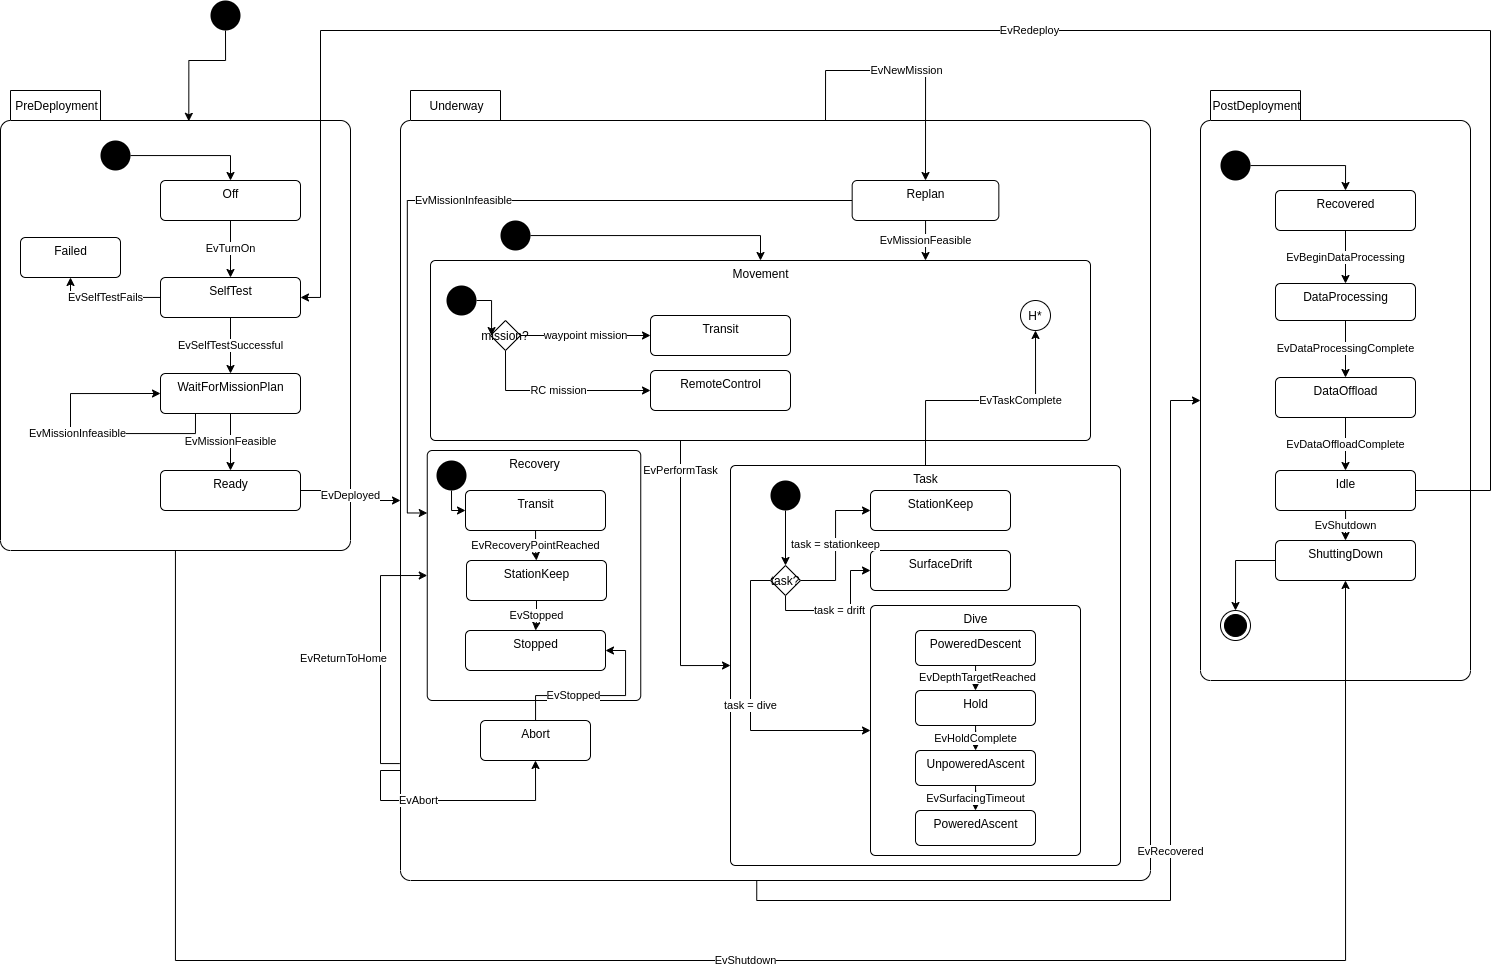
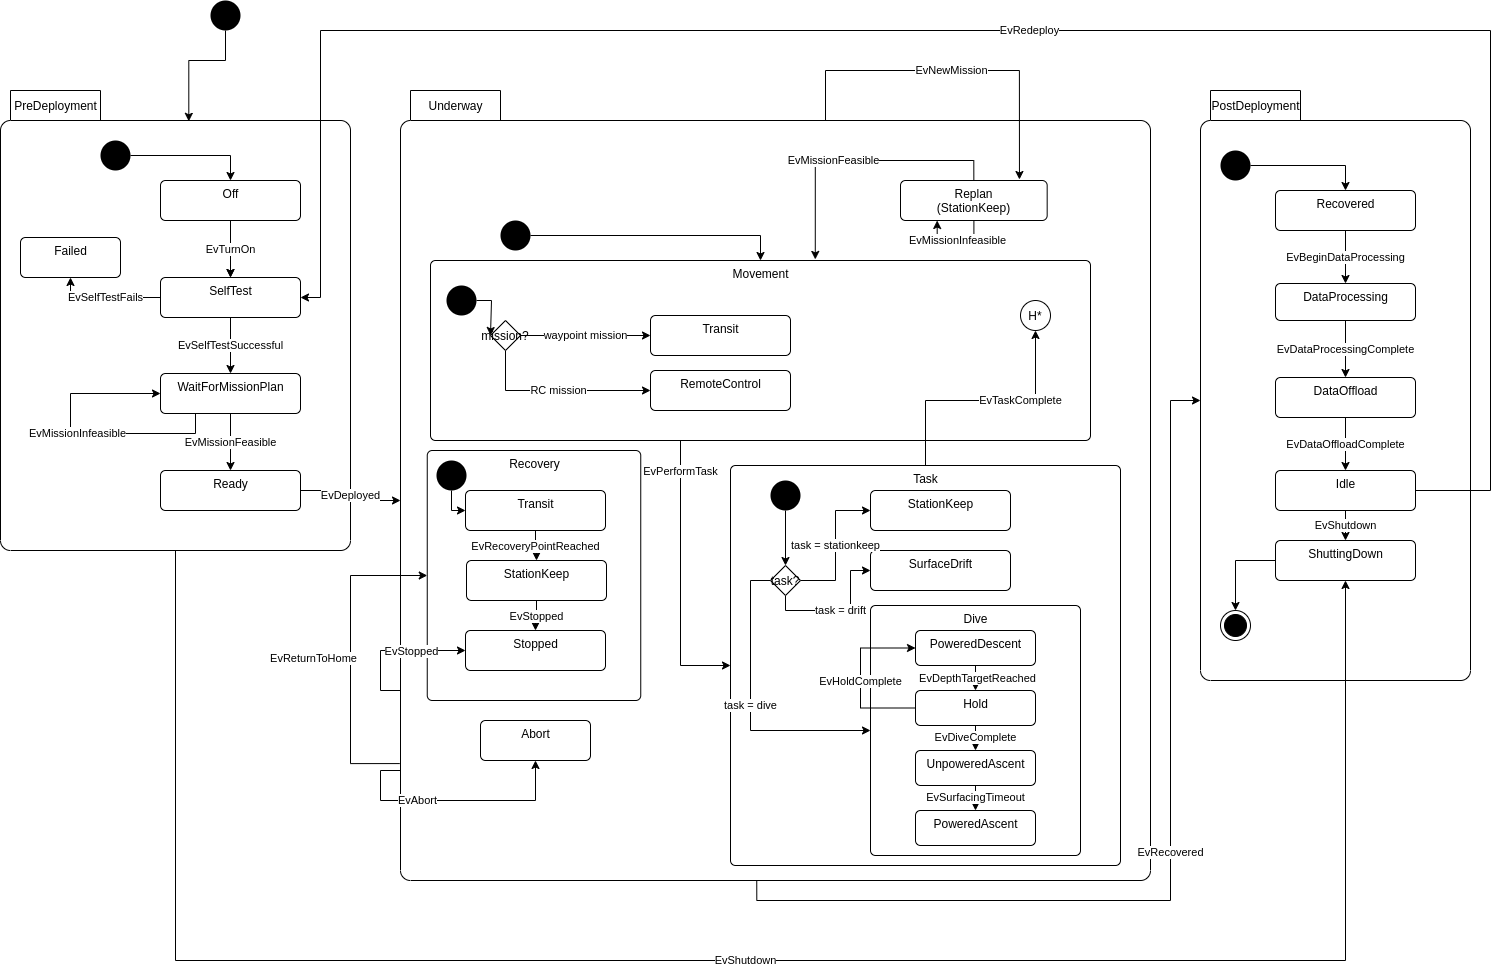
Fill in state reactions

diff --git a/src/bin/mission_manager/machine.h b/src/bin/mission_manager/machine.h
@@ -2,6 +2,7 @@
 #define JAIABOT_SRC_BIN_MISSION_MANAGER_MACHINE_H
 
 #include <boost/mpl/list.hpp>
+#include <boost/statechart/deep_history.hpp>
 #include <boost/statechart/event.hpp>
 #include <boost/statechart/state.hpp>
 #include <boost/statechart/state_machine.hpp>
@@ -56,6 +57,7 @@ STATECHART_EVENT(EvDataOffloadComplete)
 STATECHART_EVENT(EvShutdown)
 STATECHART_EVENT(EvRedeploy)
 STATECHART_EVENT(EvDepthTargetReached)
+STATECHART_EVENT(EvDiveComplete)
 STATECHART_EVENT(EvHoldComplete)
 STATECHART_EVENT(EvSurfacingTimeout)
 #undef STATECHART_EVENT
@@ -119,6 +121,7 @@ struct Ready;
 struct Underway;
 namespace underway
 {
+struct Replan;
 struct Movement;
 namespace movement
 {
@@ -190,6 +193,9 @@ struct PreDeployment
     PreDeployment(typename StateBase::my_context c) : StateBase(c) {}
     // exit action
     ~PreDeployment() {}
+
+    using reactions =
+        boost::mpl::list<boost::statechart::transition<EvShutdown, postdeployment::ShuttingDown>>;
 };
 
 namespace predeployment
@@ -200,6 +206,8 @@ struct Off : boost::statechart::state<Off, PreDeployment>,
     using StateBase = boost::statechart::state<Off, PreDeployment>;
     Off(typename StateBase::my_context c) : StateBase(c) {}
     ~Off() {}
+
+    using reactions = boost::mpl::list<boost::statechart::transition<EvTurnOn, SelfTest>>;
 };
 
 struct SelfTest : boost::statechart::state<SelfTest, PreDeployment>,
@@ -208,6 +216,10 @@ struct SelfTest : boost::statechart::state<SelfTest, PreDeployment>,
     using StateBase = boost::statechart::state<SelfTest, PreDeployment>;
     SelfTest(typename StateBase::my_context c) : StateBase(c) {}
     ~SelfTest() {}
+
+    using reactions =
+        boost::mpl::list<boost::statechart::transition<EvSelfTestFails, Failed>,
+                         boost::statechart::transition<EvSelfTestSuccessful, WaitForMissionPlan>>;
 };
 
 struct Failed : boost::statechart::state<Failed, PreDeployment>,
@@ -225,6 +237,12 @@ struct WaitForMissionPlan
     using StateBase = boost::statechart::state<WaitForMissionPlan, PreDeployment>;
     WaitForMissionPlan(typename StateBase::my_context c) : StateBase(c) {}
     ~WaitForMissionPlan() {}
+
+    using reactions = boost::mpl::list<
+        boost::statechart::transition<EvMissionFeasible, Ready>,
+        boost::statechart::transition<EvMissionInfeasible,
+                                      WaitForMissionPlan> // maybe change to in_state_reaction?
+        >;
 };
 
 struct Ready : boost::statechart::state<Ready, PreDeployment>,
@@ -233,6 +251,8 @@ struct Ready : boost::statechart::state<Ready, PreDeployment>,
     using StateBase = boost::statechart::state<Ready, PreDeployment>;
     Ready(typename StateBase::my_context c) : StateBase(c) {}
     ~Ready() {}
+
+    using reactions = boost::mpl::list<boost::statechart::transition<EvDeployed, Underway>>;
 };
 
 } // namespace predeployment
@@ -244,16 +264,41 @@ struct Underway : boost::statechart::state<Underway, MissionManagerStateMachine,
 
     Underway(typename StateBase::my_context c) : StateBase(c) {}
     ~Underway() {}
+
+    using reactions =
+        boost::mpl::list<boost::statechart::transition<EvNewMission, underway::Replan>,
+                         boost::statechart::transition<EvReturnToHome, underway::Recovery>,
+                         boost::statechart::transition<EvAbort, underway::Abort>,
+                         boost::statechart::transition<EvStopped, underway::recovery::Stopped>>;
 };
 
 namespace underway
 {
-struct Movement : boost::statechart::state<Movement, Underway, movement::Transit>
+struct Replan : boost::statechart::state<Replan, Underway>,
+                Notify<Replan, protobuf::UNDERWAY__REPLAN>
 {
-    using StateBase = boost::statechart::state<Movement, Underway, movement::Transit>;
+    using StateBase = boost::statechart::state<Replan, Underway>;
+    Replan(typename StateBase::my_context c) : StateBase(c) {}
+    ~Replan() {}
 
-    Movement(typename StateBase::my_context c) : StateBase(c) {}
+    using reactions = boost::mpl::list<
+        boost::statechart::transition<EvMissionInfeasible, Replan>, // maybe in_state_reaction
+        boost::statechart::transition<EvMissionFeasible, Movement>>;
+};
+
+struct Movement : boost::statechart::state<Movement, Underway, movement::Transit,
+                                           boost::statechart::has_deep_history>
+{
+    using StateBase = boost::statechart::state<Movement, Underway, movement::Transit,
+                                               boost::statechart::has_deep_history>;
+
+    Movement(typename StateBase::my_context c) : StateBase(c)
+    {
+        // TODO add conditional on mission type for child state.
+    }
     ~Movement() {}
+
+    using reactions = boost::mpl::list<boost::statechart::transition<EvPerformTask, Task>>;
 };
 
 namespace movement
@@ -280,8 +325,15 @@ struct Task : boost::statechart::state<Task, Underway, task::StationKeep>
 {
     using StateBase = boost::statechart::state<Task, Underway, task::StationKeep>;
 
-    Task(typename StateBase::my_context c) : StateBase(c) {}
+    Task(typename StateBase::my_context c) : StateBase(c)
+    {
+        // TODO add conditional on task type for child state.
+    }
     ~Task() {}
+
+    using reactions = boost::mpl::list<boost::statechart::transition<
+        EvTaskComplete, boost::statechart::deep_history<movement::Transit // default
+                                                        >>>;
 };
 
 namespace task
@@ -316,6 +368,8 @@ struct PoweredDescent : boost::statechart::state<PoweredDescent, Dive>,
     using StateBase = boost::statechart::state<PoweredDescent, Dive>;
     PoweredDescent(typename StateBase::my_context c) : StateBase(c) {}
     ~PoweredDescent() {}
+
+    using reactions = boost::mpl::list<boost::statechart::transition<EvDepthTargetReached, Hold>>;
 };
 
 struct Hold : boost::statechart::state<Hold, Dive>,
@@ -324,6 +378,10 @@ struct Hold : boost::statechart::state<Hold, Dive>,
     using StateBase = boost::statechart::state<Hold, Dive>;
     Hold(typename StateBase::my_context c) : StateBase(c) {}
     ~Hold() {}
+
+    using reactions =
+        boost::mpl::list<boost::statechart::transition<EvHoldComplete, PoweredDescent>,
+                         boost::statechart::transition<EvDiveComplete, PoweredAscent>>;
 };
 
 struct UnpoweredAscent : boost::statechart::state<UnpoweredAscent, Dive>,
@@ -332,6 +390,9 @@ struct UnpoweredAscent : boost::statechart::state<UnpoweredAscent, Dive>,
     using StateBase = boost::statechart::state<UnpoweredAscent, Dive>;
     UnpoweredAscent(typename StateBase::my_context c) : StateBase(c) {}
     ~UnpoweredAscent() {}
+
+    using reactions =
+        boost::mpl::list<boost::statechart::transition<EvSurfacingTimeout, PoweredAscent>>;
 };
 
 struct PoweredAscent : boost::statechart::state<PoweredAscent, Dive>,
@@ -361,6 +422,9 @@ struct Transit : boost::statechart::state<Transit, Recovery>,
     using StateBase = boost::statechart::state<Transit, Recovery>;
     Transit(typename StateBase::my_context c) : StateBase(c) {}
     ~Transit() {}
+
+    using reactions =
+        boost::mpl::list<boost::statechart::transition<EvRecoveryPointReached, StationKeep>>;
 };
 
 struct StationKeep : boost::statechart::state<StationKeep, Recovery>,
@@ -369,6 +433,8 @@ struct StationKeep : boost::statechart::state<StationKeep, Recovery>,
     using StateBase = boost::statechart::state<StationKeep, Recovery>;
     StationKeep(typename StateBase::my_context c) : StateBase(c) {}
     ~StationKeep() {}
+
+    using reactions = boost::mpl::list<boost::statechart::transition<EvStopped, Stopped>>;
 };
 
 struct Stopped : boost::statechart::state<Stopped, Recovery>,
@@ -409,6 +475,9 @@ struct Recovered : boost::statechart::state<Recovered, PostDeployment>,
     using StateBase = boost::statechart::state<Recovered, PostDeployment>;
     Recovered(typename StateBase::my_context c) : StateBase(c) {}
     ~Recovered() {}
+
+    using reactions =
+        boost::mpl::list<boost::statechart::transition<EvBeginDataProcessing, DataProcessing>>;
 };
 
 struct DataProcessing : boost::statechart::state<DataProcessing, PostDeployment>,
@@ -417,6 +486,9 @@ struct DataProcessing : boost::statechart::state<DataProcessing, PostDeployment>
     using StateBase = boost::statechart::state<DataProcessing, PostDeployment>;
     DataProcessing(typename StateBase::my_context c) : StateBase(c) {}
     ~DataProcessing() {}
+
+    using reactions =
+        boost::mpl::list<boost::statechart::transition<EvDataProcessingComplete, DataOffload>>;
 };
 
 struct DataOffload : boost::statechart::state<DataOffload, PostDeployment>,
@@ -425,6 +497,18 @@ struct DataOffload : boost::statechart::state<DataOffload, PostDeployment>,
     using StateBase = boost::statechart::state<DataOffload, PostDeployment>;
     DataOffload(typename StateBase::my_context c) : StateBase(c) {}
     ~DataOffload() {}
+
+    using reactions = boost::mpl::list<boost::statechart::transition<EvDataOffloadComplete, Idle>>;
+};
+
+struct Idle : boost::statechart::state<Idle, PostDeployment>,
+              Notify<Idle, protobuf::POST_DEPLOYMENT__IDLE>
+{
+    using StateBase = boost::statechart::state<Idle, PostDeployment>;
+    Idle(typename StateBase::my_context c) : StateBase(c) {}
+    ~Idle() {}
+
+    using reactions = boost::mpl::list<boost::statechart::transition<EvShutdown, ShuttingDown>>;
 };
 
 struct ShuttingDown : boost::statechart::state<ShuttingDown, PostDeployment>,
